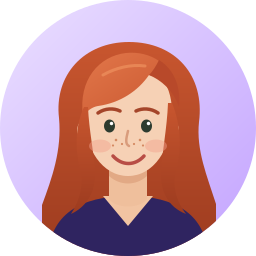
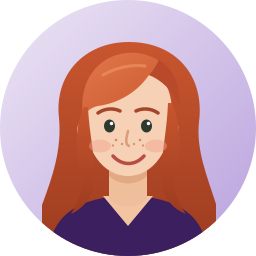
Draw the chat in plum end to end, with Odoo's colours from the persona file
chat-persona.json now carries the Live Chat channel's colours (#6a33a6, white
text), which the platform's configure script sets in Odoo; a test keeps them
equal to --chat-header. The window drawn while Odoo loads follows the plum
Odoo window: its focused composer border, placeholder and typing dots. Chloé's
avatar and the social cards' glow leave the old Scaleway purple for plum
tints, and Odoo has the new avatar.

Changed region(s): [[0.75, 0.2812, 1.0, 0.875]]

diff --git a/tests/chat.test.ts b/tests/chat.test.ts
@@ -1,0 +1,19 @@
+import { test } from 'node:test';
+import assert from 'node:assert/strict';
+import { readFileSync } from 'node:fs';
+
+void test("the chat drawn while Odoo loads has Odoo's header colour", () => {
+  // The platform's configure script sets the Live Chat channel from these.
+  const persona = JSON.parse(
+    readFileSync('infra/odoo/chat-persona.json', 'utf8'),
+  ) as { colors: { background: string; text: string } };
+  const base = readFileSync('styles/base.css', 'utf8');
+  assert.match(
+    base,
+    new RegExp(`--chat-header: ${persona.colors.background};`),
+  );
+  const chat = readFileSync('styles/chat.css', 'utf8');
+  const header = /\.chat-shell header \{[^}]*\}/.exec(chat)?.[0] ?? '';
+  assert.match(header, /background: var\(--chat-header\);/);
+  assert.match(header, new RegExp(`color: ${persona.colors.text};`));
+});

diff --git a/styles/chat.css b/styles/chat.css
@@ -137,7 +137,8 @@ button.chat-launcher:hover {
   height: 46px;
   margin: 0 8px 8px;
   padding-right: 2px;
-  border: 1px solid #a29dab;
+  /* Odoo's focused composer: its plum at 65% over white. */
+  border: 1px solid #9e7ac5;
   border-radius: 7.5px;
   background: #fff;
   color: #212529;
@@ -151,7 +152,7 @@ button.chat-launcher:hover {
 .chat-shell-composer > span {
   flex: 1;
   padding-left: 8px;
-  color: #c4c3c6;
+  color: #bec5cc;
 }
 .chat-typing {
   display: inline-flex;
@@ -165,7 +166,7 @@ button.chat-launcher:hover {
   width: 6px;
   height: 6px;
   border-radius: 50%;
-  background: #9d90b2;
+  background: #adb5bd;
   animation: chat-typing 1.2s ease-in-out infinite;
 }
 .chat-typing i:nth-child(2) {

diff --git a/styles/base.css b/styles/base.css
@@ -38,8 +38,9 @@
   --cta-hover: light-dark(#5a2b8e, #6a33a6);
   --cta-foreground: #ffffff;
   --highlight: #e8650f;
-  /* Odoo's Live Chat header (set on the channel in Odoo) and the window drawn
-     in its place while it loads (styles/chat.css). */
+  /* Odoo's Live Chat header, set on the channel from the persona's colours
+     (infra/odoo/chat-persona.json), and the window drawn in its place while it
+     loads (styles/chat.css). */
   --chat-header: #6a33a6;
   --muted: light-dark(#e0dee6, #222025);
   --muted-foreground: light-dark(#4f4c54, #a9a8ac);

diff --git a/lib/social-image.tsx b/lib/social-image.tsx
@@ -92,7 +92,7 @@ export async function socialCardPng(card: SocialCard) {
         color: colors.foreground,
         backgroundColor: colors.background,
         backgroundImage:
-          'radial-gradient(circle at 92% 8%, rgba(140, 64, 239, 0.3), rgba(18, 16, 27, 0) 46%)',
+          'radial-gradient(circle at 92% 8%, rgba(118, 70, 173, 0.3), rgba(18, 17, 21, 0) 46%)',
       }}
     >
       <div

diff --git a/docs/deployment.md b/docs/deployment.md
@@ -208,16 +208,19 @@ Odoo's widget (about 700 KB) replaces it once the chat is open, and after 20
 seconds without it the button offers the contact form instead. Because the
 widget runs on Odoo's origin, the page's CSP only adds
 `frame-src https://odoo.swirlit.dev`. The origin and channel ID are in
-`data/site.ts`; the channel's colours (`#6a33a6`, text `#ffffff`) are set in
-Odoo under **Live Chat → Configuration → Channels**. Agents answer in Odoo
+`data/site.ts`. Odoo draws the chat in the site's plum: the channel's button
+and header (`#6a33a6`, text `#ffffff`) come from `colors` in
+`infra/odoo/chat-persona.json` (applied with the command below), and the
+platform's add-on themes the rest of the window. Agents answer in Odoo
 **Discuss**; when none is online, the chatbot collects the visitor's email and
 request and creates a lead.
 
 ### Chloé and answering by email
 
 `infra/odoo/chat-persona.json` defines Chloé: her name, avatar (`chloe.png`,
-drawn from the site's `public/assets/chloe.svg`) and the French and English
-text of each chatbot step (one message per step, in order). New visitor messages
+drawn from the site's `public/assets/chloe.svg`), the chat's colours (the same
+as `--chat-header`) and the French and English text of each chatbot step (one
+message per step, in order). New visitor messages
 are emailed to the team, and replying to that email answers in the chat as
 Chloé, by email too if the visitor has left. Apply the persona and email
 settings from the platform host:

diff --git a/TODO.md b/TODO.md
@@ -80,6 +80,7 @@ Swirl Cloud answers, with sources and dates as for the existing ones.
 - [x] Privacy page (FR and EN): Odoo CRM leads, chat transcripts and the chat's cookies and storage. *(2026-10-07)*
 - [x] Chloé, the chat persona (`infra/odoo/chat-persona.json`, avatar and FR/EN texts), and answering chats by email, explained on the privacy page. *(2026-10-07)*
 - [x] Chat on every page; Chloé shown online (green dot) on the button and in the chat; a chat window opens at once on click while Odoo's chat starts; her closing message promises a quick answer without naming email. *(2026-10-09)*
+- [x] The chat in the site's plum end to end: Odoo's button and header from `colors` in `chat-persona.json` (a test keeps them equal to `--chat-header`), Odoo's window themed by the platform add-on, the loading window matching it, and Chloé's avatar and the social cards' glow off the old Scaleway purple. *(2026-11-09)*
 
 ## Swirl Cloud product pages (added 2026-10-04)
 
